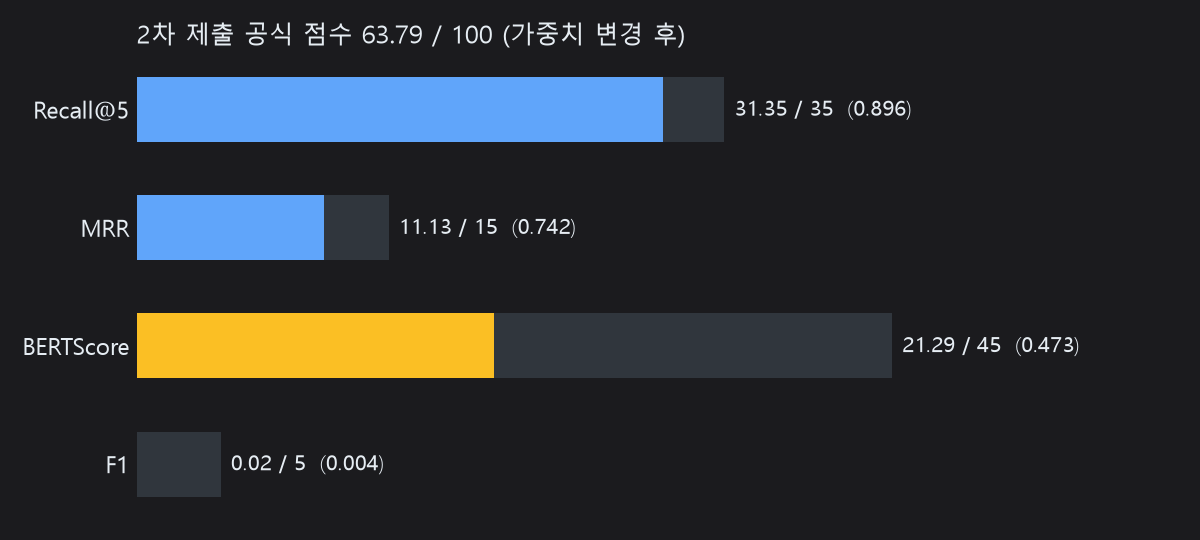
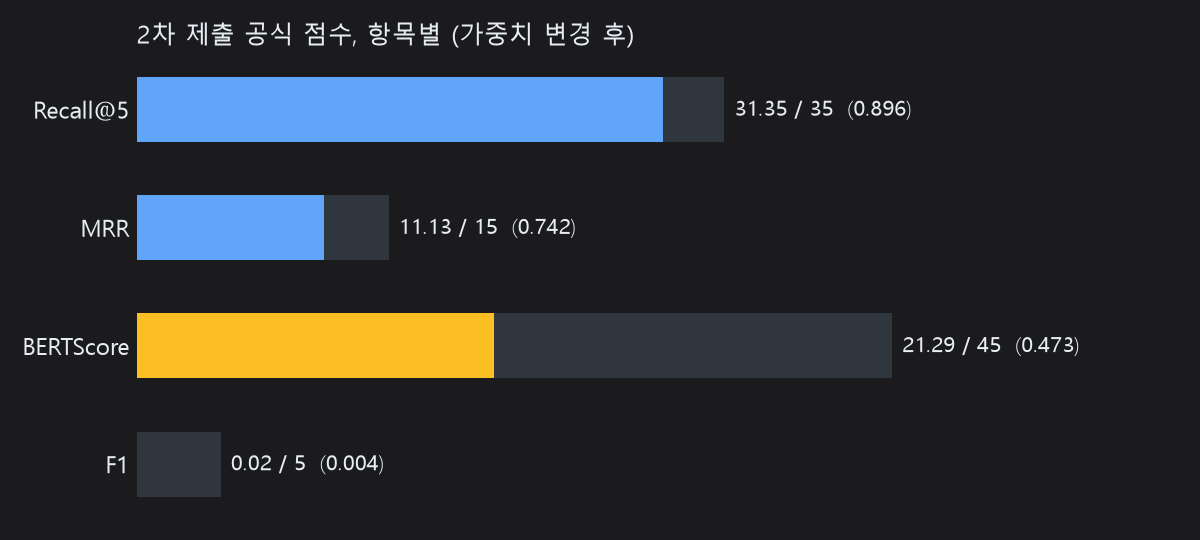
공정위 RAG 글: 총점 표기 제거, 항목별 점수만 유지

Changed region(s): [[0.2775, 0.0296, 0.5858, 0.0889]]

diff --git a/_posts/2026-10-23-kftc-hybrid-rag.md b/_posts/2026-10-23-kftc-hybrid-rag.md
@@ -285,7 +285,7 @@ _`test/eval_retrieval_only.py` 결과_
 
 사람 GT 셋은 모든 질문이 제목을 담고 있어 앵커가 매번 정답 문서를 잡고 자체 R@5/MRR은 문서 단위로 매칭하므로(7장) 그 순간 1.00이 나온다. 패러프레이즈셋은 반대로 앵커가 한 번도 발동하지 않았으니 MRR 0.862 → 0.964는 앵커가 아닌 리랭커 경로에서 나온 효과다.
 
-1.00은 결국 "공식 질문도 제목을 담고 있다"는 가정이 맞을 때의 값이다. 이 가정은 공식 질문 형식과 같은 형식으로 만든 평가셋을 근거로 세웠고, 앵커링을 넣은 3차 제출의 점수는 비공개였다. 그래도 대회가 제출작 중 최고점을 채택하는 규칙이라 3차가 나빠도 2차의 63.79가 남으니 손해 볼 것 없는 시도였다.
+1.00은 결국 "공식 질문도 제목을 담고 있다"는 가정이 맞을 때의 값이다. 이 가정은 공식 질문 형식과 같은 형식으로 만든 평가셋을 근거로 세웠고, 앵커링을 넣은 3차 제출의 점수는 비공개였다. 그래도 대회가 제출작 중 최고점을 채택하는 규칙이라 3차가 나빠도 2차 점수가 남으니 손해 볼 것 없는 시도였다.
 
 앵커가 잡히면 리랭커를 건너뛴다(응답 1~2초). 남는 자리는 RRF 순서로 채운다.
 
@@ -542,13 +542,10 @@ _괄호는 만점 대비 비율_
 | MRR | 15 | 10.99 | 11.13 | 0.742 |
 | BERTScore | 45 | 21.37 | 21.29 | 0.473 |
 | F1 | 5 | 0.02 | 0.02 | 0.004 |
-| **총점** | 100 | 63.10 | **63.79** | |
-
-1차는 통보 총점 63.10(항목 합 62.83)이다.
 
 표에서 세 가지를 읽을 수 있다.
 
-1. 검색은 50점 중 42.48점, 생성은 50점 중 21.31점이다. 잃은 36.21점 중 23.71점이 BERTScore다.
+1. 검색은 50점 중 42.48점, 생성은 50점 중 21.31점이다. 생성 쪽 감점은 대부분 BERTScore(45점 중 23.71점 감점)에서 나왔다.
 2. 검색 개선은 공식 점수로 전이됐지만 생성 개선은 그러지 못했다. 2차에서 리랭커를 켜자 R@5가 +0.90점, MRR이 +0.14점 올랐다. 같은 차수에 답변을 다시 썼고 자체 mBERT는 0.786에서 0.844로 올랐지만 공식 BERTScore는 21.37에서 21.29로 그대로였다.
 3. 공식 BERTScore 0.473과 자체 0.861은 같은 자로 잰 값이 아니다. 공식 채점의 모델과 설정이 비공개라 baseline 보정 여부를 알 수 없었다. 공식 F1 0.004도 운영팀이 "평가데이터 특성상 전 팀이 낮다"고 공지한 값이다.
 
